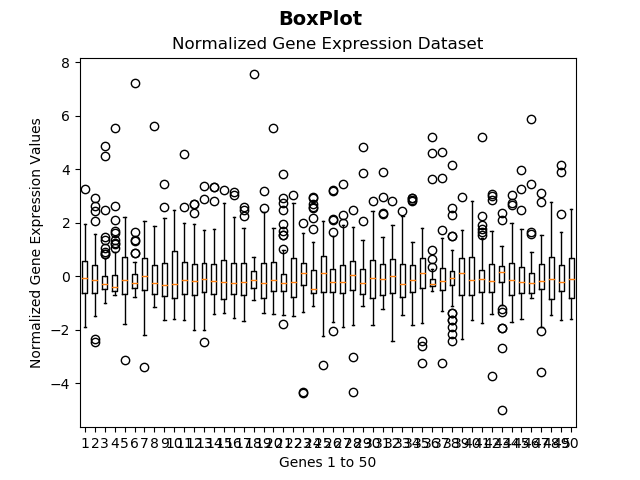
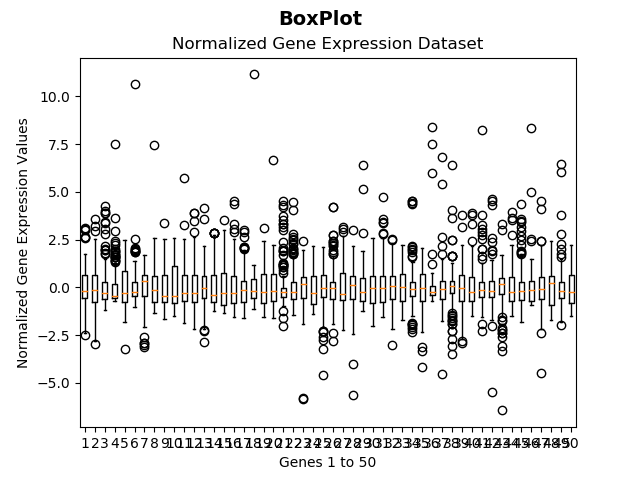
Implementing SMOTE for oversampling and ReliefF for correlation based feature Selection

diff --git a/GeneExpressionAnalysis.py b/GeneExpressionAnalysis.py
@@ -1,4 +1,5 @@
 import  pandas as pd
+import  numpy
 import numpy as np
 import os
 import matplotlib.pyplot as plt
@@ -12,13 +13,38 @@ from sklearn.externals import joblib
 from sklearn.feature_selection import RFE
 from sklearn.cluster import KMeans
 from sklearn import cross_validation
-from sklearn import K
 from  sklearn.feature_selection import SelectKBest
 from sklearn.feature_selection import mutual_info_classif
 from sklearn.model_selection import LeaveOneOut
 from genetic_selection import GeneticSelectionCV
+from imblearn.over_sampling import SMOTE
+from sklearn.model_selection import KFold
+import skrebate
 
 
+
+
+
+def makePlotOfClassValues(listOfClassValues,plotName):
+    dicOfClassLabels = {}
+    if isinstance(listOfClassValues,numpy.ndarray):
+        for index in range(len(listOfClassValues)):
+            val=listOfClassValues[index]
+            if val not in dicOfClassLabels:
+                dicOfClassLabels[val]=1
+            else:
+                dicOfClassLabels[val] += 1
+    else:
+        for val in listOfClassValues.values.flatten():
+            if val not in dicOfClassLabels:
+                dicOfClassLabels[val] = 1
+            else:
+                dicOfClassLabels[val] += 1
+
+    labels, freq = zip(*dicOfClassLabels.items())
+    plt.bar(labels, freq)
+    plt.savefig(plotName)
+    plt.show()
 
 def saveTrainedModel(model,path):
     print("model:",model)
@@ -76,17 +102,34 @@ pdTrainFileClassValues=pd.read_csv(trainFileClassPath,header=None,sep=" ")
 pdTestFileValues=pd.read_csv(testFilePath)
 
 pdGeneNames=pdTrainFileValuesWithGeneColumn['SNO']
+pdGeneNamesList=list(pdGeneNames)
 pdTrainFileValues=pdTrainFileValuesWithGeneColumn.drop(["SNO"],axis=1)
-#pdTrainFileClassValues=pdTrainFileValuesWithGeneColumn[1:]
+
 pdTrainOrderByGene=pdTrainFileValues.transpose()
+# Encoding Train Class label Data to Numeric
+
+le=preprocessing.LabelEncoder()
+le.fit(pdTrainFileClassValues)
+trainClassNumericalValues=le.transform(pdTrainFileClassValues)
+
+X=pdTrainOrderByGene
+y=trainClassNumericalValues
+
+#oversampling using SMOTE
+
+X_resampled, y_resampled = SMOTE().fit_sample(X, trainClassNumericalValues)
+y_resampled_labels=le.inverse_transform(y_resampled)
+
+pdTrainOrderByGene=pd.DataFrame(X_resampled,columns=pdGeneNamesList)
+#pdTrainFileClassValues=pdTrainFileValuesWithGeneColumn[1:]
+pdTrainOrderByGene=pdTrainOrderByGene=pd.DataFrame(X_resampled,columns=pdGeneNamesList)
 pdTrainOrderByGeneSample=pdTrainOrderByGene.iloc[:,0:50]
+trainClassNumericalValues=y_resampled
 
-pdTestFileValues.shape
 
-pdTrainFileValues.shape
 
-pdTrainFileValues.shape
-pdTrainFileValues.columns
+
+
 
 #Displaying boxplot of Data
 
@@ -127,12 +170,13 @@ figNormalizedGenes.savefig("BoxPlot Normalized Genes(1-50) Expression Data.png")
 
 
 
-# Encoding Train Class label Data to Numeric
 
-le=preprocessing.LabelEncoder()
-le.fit(pdTrainFileClassValues)
-trainClassNumericalValues=le.transform(pdTrainFileClassValues)
 
+
+# Make Frequency Distribution of class values
+
+makePlotOfClassValues(pdTrainFileClassValues,"frequency_distribution_class_wise.png")
+makePlotOfClassValues(y_resampled_labels,"Resampled_frequency_distribution_class_wise.png")
 
 # Plotting Data using Hierarchical Clustering
 
@@ -153,8 +197,17 @@ kBestFeaturesData=selectKBest.transform(X)
 selectedGenesNamesUsingKBest=list(pdGeneNames[sortedKeys])
 dicOfGenesIndices=convertGeneKeyScoreToGeneIndexDic(dictOfKBestFeatures)
 
-mergings=linkage(kBestFeaturesData.transpose(),method="complete")
-dendrogram(mergings,leaf_rotation=90.,leaf_font_size=12.,labels=selectedGenesNamesUsingKBest)
+
+#Feature Selection Using Correlation Based Filter Methods
+
+reliefFFeaures=1000
+reliefFNeighbours=100
+reliefFFeaures=skrebate.ReliefF(n_features_to_select=reliefFFeaures,n_neighbors=reliefFNeighbours)
+reliefFFeauresFitted=reliefFFeaures.fit(kBestFeaturesData,y)
+reliefFTransformedFeatures=reliefFFeauresFitted.transform(kBestFeaturesData)
+#Creating Dendogram of the Gene Data
+#mergings=linkage(kBestFeaturesData.transpose(),method="complete")
+#dendrogram(mergings,leaf_rotation=90.,leaf_font_size=12.,labels=selectedGenesNamesUsingKBest)
 
 
 
@@ -233,10 +286,18 @@ def clusterScoreOfGenes(geneClusterData,totalClusters):
     for key,value in geneClusterData.items():
         geneIndices=geneClusterData[key]
         extracedGenesData=X[:,geneIndices]
-        svmClusterClassifier=SVC()
-        xTrain,xTest,yTrain,yTest=train_test_split(extracedGenesData,y,test_size=0.4)
-        svmClusterClassifier.fit(xTrain,yTrain)
-        clusterScoreDic[key]=svmClusterClassifier.score(xTest,yTest)
+        kFold=KFold(n_splits=10,shuffle=True)
+        tempScores=[]
+        for train_index,test_index in kFold.split(extracedGenesData):
+            svmClusterClassifier = SVC()
+            tempXTrain,tempXTest=extracedGenesData[train_index],extracedGenesData[test_index]
+            tempYTrain,tempYTest=y_resampled[train_index],y_resampled[test_index]
+            svmClusterClassifier.fit(tempXTrain,tempYTrain)
+            tempScores.append(svmClusterClassifier.score(tempXTest,tempYTest))
+        clusterScoreDic[key] = np.mean(tempScores)
+        #xTrain,xTest,yTrain,yTest=train_test_split(extracedGenesData,y,test_size=0.4)
+        #svmClusterClassifier.fit(xTrain,yTrain)
+        #clusterScoreDic[key]=svmClusterClassifier.score(xTest,yTest)
     return clusterScoreDic
 
 def filterClustersWithThreshold(clusterScoreData,threshold):
@@ -265,19 +326,24 @@ Initial_Clusters=600
 Final_Clusters=10
 Decreate_Rate=0.03
 GeneDataForClustering=kBestFeaturesData.transpose()
-Threshold=0.7
+Threshold=0.75
 dicOfGenesIndices=convertGeneKeyScoreToGeneIndexDic(dictOfKBestFeatures)
 
 
 count=1
 samples=kBestFeaturesData.shape[0]
 firstDim = GeneDataForClustering.shape[0]
-while (Initial_Clusters>Final_Clusters) and (firstDim>Initial_Clusters)  :
+K=1
+while(firstDim>100):
+    #print("**********************************************************************")
+    #print(" Attempt:", K,"To Find Features < 100....")
+    while (Initial_Clusters>Final_Clusters) and (firstDim>Initial_Clusters)  :
         print("Iteration.....:",count)
         print("Initial Clusters...:",Initial_Clusters)
         print("Final Clusters...:", Final_Clusters)
         print("Data Shape...:",GeneDataForClustering.shape)
-        kmeansCluster=KMeans(n_clusters=Initial_Clusters)
+        print("Features....",len(dicOfGenesIndices))
+        kmeansCluster=KMeans(n_clusters=Initial_Clusters,max_iter=600,n_init=50)
         kmeansCluster.fit(GeneDataForClustering)
         dicOfGenesWithClusters=joinGenesWithClusters(kmeansCluster.labels_,Initial_Clusters,dicOfGenesIndices)
         clusterScore=clusterScoreOfGenes(dicOfGenesWithClusters,Initial_Clusters)
@@ -290,10 +356,22 @@ while (Initial_Clusters>Final_Clusters) and (firstDim>Initial_Clusters)  :
         samples = GeneDataForClustering.shape[1]
         firstDim=GeneDataForClustering.shape[0]
         print("___________________________________________________________")
+    #count=1
+    #Initial_Clusters = 600
+    #Final_Clusters = 10
+    #Decreate_Rate = 0.03
+    #GeneDataForClustering = kBestFeaturesData.transpose()
+    #Threshold = 0.75
+    #dicOfGenesIndices = convertGeneKeyScoreToGeneIndexDic(dictOfKBestFeatures)
+    #samples = kBestFeaturesData.shape[0]
+    #firstDim = GeneDataForClustering.shape[0]
+    #K+=1
 
 
-GeneDataForClustering=GeneDataForClustering.transpose()
-finalXTrain,finalXTest,finalYTrain,finalYTest=train_test_split(GeneDataForClustering,y,test_size=0.4)
+filteredGenesList=pdGeneNamesList[list(dicOfGenesIndices.values())]
+svmClassifier=SVC()
+GeneDataForClusteringReshaped=GeneDataForClustering.transpose()
+finalXTrain,finalXTest,finalYTrain,finalYTest=train_test_split(GeneDataForClusteringReshaped,y_resampled,test_size=0.4)
 svmClassifier.fit(finalXTrain,finalYTrain)
 print(svmClassifier.score(finalXTest,finalYTest))
 
@@ -319,10 +397,11 @@ selector = GeneticSelectionCV(estimator,
                                   tournament_size=3,
                                   caching=True,
                                   n_jobs=-1)
-selector = selector.fit(kBestFeaturesData, y)
+selector.fit(reliefFTransformedFeatures,y_resampled)
+transformedTrainFeatures=selector.transform(reliefFTransformedFeatures)
 
 
-genXTrain,genXTest,genYTrain,genYTest=train_test_split(geneticFeaturesData,y,test_size=0.4)
+genXTrain,genXTest,genYTrain,genYTest=train_test_split(transformedTrainFeatures,y,test_size=0.4)
 
 estimator.fit(genXTrain,genYTrain)
 
